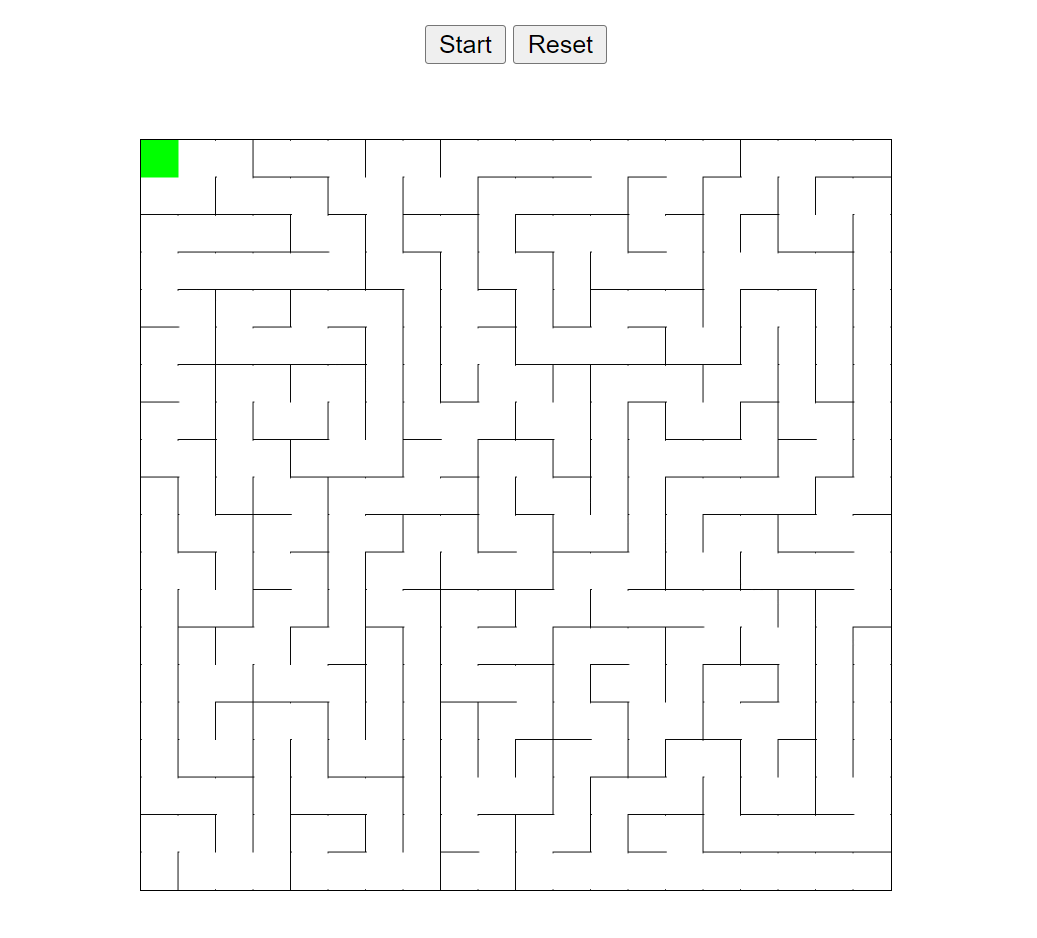
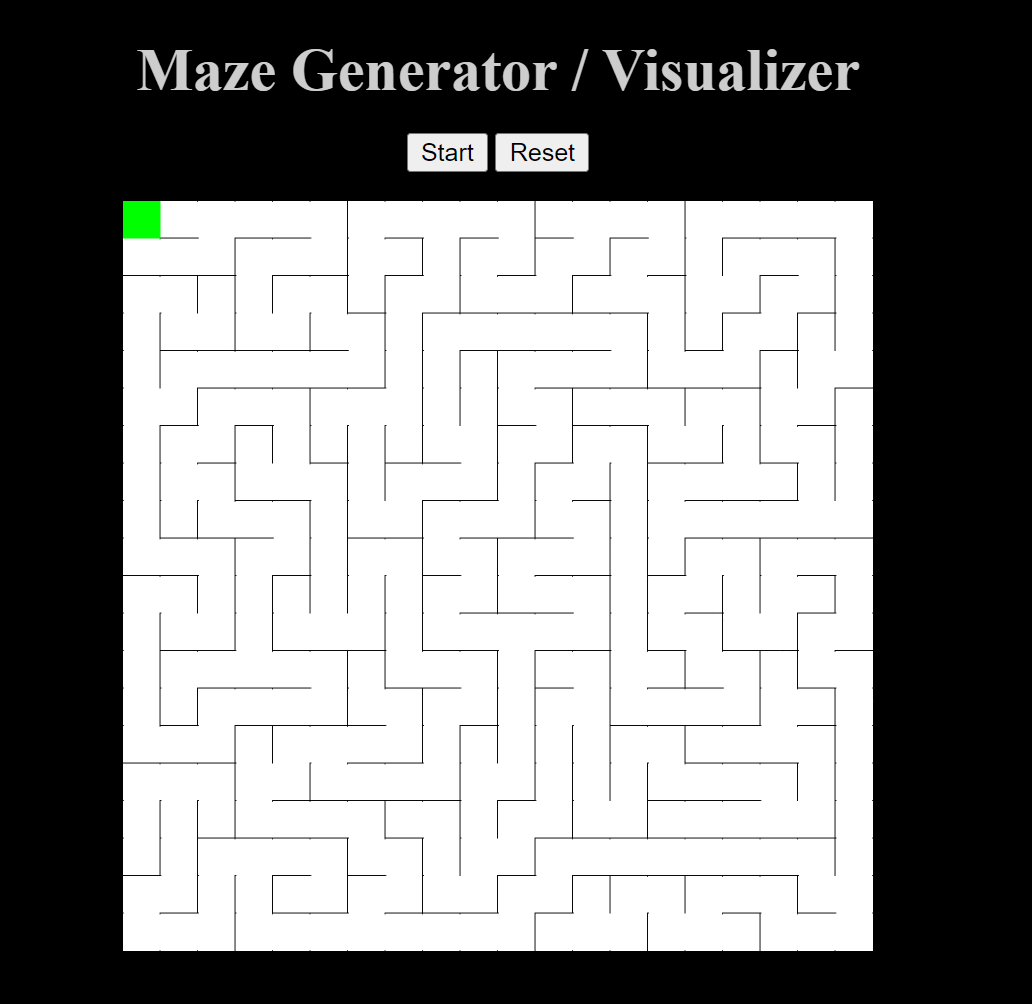
Added title

diff --git a/style.css b/style.css
@@ -8,9 +8,18 @@ body{
   height: 100vh;
   display: flex;
   flex-direction: column;
-  gap: 40px;
+  gap: 15px;
   align-items: center;
   justify-content: center;
+  background-color: black;
+}
+
+h1{
+  margin: 0;
+}
+
+.heading{
+  color: rgb(205, 205, 205);
 }
 
 canvas {

diff --git a/index.html b/index.html
@@ -14,6 +14,9 @@
 </head>
 
 <body>
+  <div class="heading">
+    <h1>Maze Generator / Visualizer</h1>
+  </div>
   <div class="btns">
     <button class="start">Start</button>
     <button class="reset">Reset</button>
